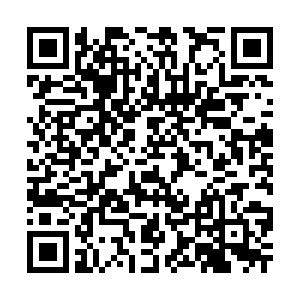
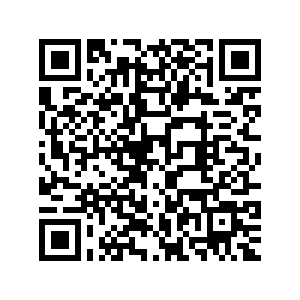
Editar reservas municipal manager, Carlos

diff --git a/src/main/resources/templates/reservation/reservasArea.html b/src/main/resources/templates/reservation/reservasArea.html
@@ -47,6 +47,9 @@
                         <button style="float: right" type="button" class="btn btn-primary" data-toggle="modal"
                                 th:data-target="${'#miModal' + reserva.reservationNumber}">Cancelar reserva
                         </button>
+                        <button style="float: right; margin-right: 10px" type="button" class="btn btn-secondary" data-toggle="modal"
+                                th:data-target="${'#miModal2' + reserva.reservationNumber}">Modificar reserva
+                        </button>
                     </div>
                 </div>
                 <br>
@@ -77,6 +80,33 @@
                         </div>
                     </div>
                 </div>
+
+                <!-- VENTANA EMERGENTE EDITAR-->
+                <div class="modal" th:id="${'miModal2' + reserva.reservationNumber}">
+                    <div class="modal-dialog modal-dialog-centered" role="document">
+                        <div class="modal-content">
+                            <div class="modal-header">
+                                <h5 class="modal-title">Editar reserva</h5>
+                                <button style="font-size:x-large; color: #b86f52" type="button" class="close"
+                                        data-dismiss="modal" aria-label="Close">&times;
+                                </button>
+                            </div>
+                            <div class="modal-body">
+                                <p>Indique el número de personas que finalmente acudirán:</p>
+                            </div>
+                            <form th:action="${'/reservation/editarReservaMuni/' + naturalArea + '/' + reserva.reservationNumber}" th:object="${personas}">
+                                <input type="number" min="1" class="form-control motivo" id="personas"
+                                       th:field="${personas.num}">
+                                <!-- TODO No funciona el numero max del input de arriba-->
+                                <div class="modal-footer">
+                                    <button type="submit" class="btn btn-primary">Confirmar</button>
+                                    <button type="button" class="btn btn-secondary" data-dismiss="modal">Atrás</button>
+                                </div>
+                            </form>
+                        </div>
+                    </div>
+                </div>
+
             </div>
         </div>
         <br>

diff --git a/src/main/java/es/uji/ei102720mgph/SANA/controller/ReservationController.java b/src/main/java/es/uji/ei102720mgph/SANA/controller/ReservationController.java
@@ -37,12 +37,12 @@ public class ReservationController {
 
     @Autowired
     public void setReservationDao(ReservationDao reservationDao) {
-        this.reservationDao=reservationDao;
+        this.reservationDao = reservationDao;
     }
 
     @Autowired
     public void setNaturalAreaDao(NaturalAreaDao naturalAreaDao) {
-        this.naturalAreaDao=naturalAreaDao;
+        this.naturalAreaDao = naturalAreaDao;
     }
 
     @Autowired
@@ -51,12 +51,12 @@ public class ReservationController {
     }
 
     @Autowired
-    public void setReservaDatosDao(ReservaDatosDao reservaDatosDao){
+    public void setReservaDatosDao(ReservaDatosDao reservaDatosDao) {
         this.reservaDatosDao = reservaDatosDao;
     }
 
     @Autowired
-    public void setTimeSlotDao(TimeSlotDao timeSlotDao){
+    public void setTimeSlotDao(TimeSlotDao timeSlotDao) {
         this.timeSlotDao = timeSlotDao;
     }
 
@@ -67,14 +67,15 @@ public class ReservationController {
 
 
     // Operació crear
-    @RequestMapping(value="/add/{naturalArea}")
+    @RequestMapping(value = "/add/{naturalArea}")
     public String addReservation(Model model, @PathVariable String naturalArea, HttpSession session) {
-        if (session.getAttribute("registeredCitizen") == null)  {
-            model.addAttribute("userLogin", new UserLogin() {});
+        if (session.getAttribute("registeredCitizen") == null) {
+            model.addAttribute("userLogin", new UserLogin() {
+            });
             session.setAttribute("nextUrl", "/reservation/add/" + naturalArea);
             return "redirect:/inicio/login";
         }
-        if(session.getAttribute("nextUrl") != null)
+        if (session.getAttribute("nextUrl") != null)
             session.removeAttribute("nextUrl");
         model.addAttribute("reservation", new NuevaReserva());
         model.addAttribute("naturalArea", naturalArea);
@@ -87,7 +88,7 @@ public class ReservationController {
         return "reservation/add";
     }
 
-    @RequestMapping(value="/add2/{naturalArea}")
+    @RequestMapping(value = "/add2/{naturalArea}")
     public String addReservation2(@ModelAttribute("reservation") NuevaReserva reservation, @PathVariable String naturalArea, Model model, HttpSession session) {
         model.addAttribute("reservation", reservation);
         model.addAttribute("naturalArea", naturalArea);
@@ -98,8 +99,7 @@ public class ReservationController {
             } else {
                 model.addAttribute("puedeReservar", false);
             }
-        }
-        else {
+        } else {
             model.addAttribute("puedeReservar", true);
         }
         List<Zone> zonas = zoneDao.getZoneDisponibles(reservation.getReservationDate(), reservation.getTimeSlotId(), reservation.getNumberOfPeople(), (String) model.getAttribute("naturalArea"));
@@ -108,7 +108,7 @@ public class ReservationController {
     }
 
     // Gestió de la resposta del formulari de creació d'objectes
-    @RequestMapping(value="/add", method=RequestMethod.POST)
+    @RequestMapping(value = "/add", method = RequestMethod.POST)
     public String processAddSubmit(@ModelAttribute("reservation") NuevaReserva reservation,
                                    BindingResult bindingResult, HttpSession session) {
         // TODO VALIDADOR RESERVA
@@ -154,7 +154,7 @@ public class ReservationController {
             String destinatario = reservation.getCitizenEmail();
             String asunto = "Reserva completada";
             String cuerpo = "Reserva realizada correctamente el día " + reservation.getReservationDate() +
-            " para " + reservation.getNumberOfPeople()  + " personas. \n\nUn cordial saludo del equipo de SANA.";
+                    " para " + reservation.getNumberOfPeople() + " personas. \n\nUn cordial saludo del equipo de SANA.";
             Email email = HomeController.enviarMail(destinatario, asunto, cuerpo);
             emailDao.addEmail(email);
         }
@@ -165,7 +165,8 @@ public class ReservationController {
     @RequestMapping("/cancelarReserva/{id}")
     public String cancelarReserva(@ModelAttribute("motivo") MotivoCancelancion motivo, @PathVariable String id, Model model, HttpSession session) {
         if (session.getAttribute("registeredCitizen") == null) {
-            model.addAttribute("userLogin", new UserLogin() {});
+            model.addAttribute("userLogin", new UserLogin() {
+            });
             session.setAttribute("nextUrl", "/reservation/reservas");
             return "redirect:/inicio/login";
         }
@@ -191,7 +192,7 @@ public class ReservationController {
         String destinatario = reservation.getCitizenEmail();
         String asunto = "Reserva cancelada";
         String cuerpo = "Ha cancelado su reserva correctamente del día " + reservation.getReservationDate() +
-                " para " + reservation.getNumberOfPeople()  + " personas. \n\nUn cordial saludo del equipo de SANA.";
+                " para " + reservation.getNumberOfPeople() + " personas. \n\nUn cordial saludo del equipo de SANA.";
         Email email = HomeController.enviarMail(destinatario, asunto, cuerpo);
         emailDao.addEmail(email);
         return "redirect:/reservation/reservas";
@@ -207,8 +208,7 @@ public class ReservationController {
         }
 
         int pers = personas.getNum();
-        System.out.println(pers);
-        //reservaDatosDao.cancelaReservaPorCiudadano(id, personas);
+        reservaDatosDao.modificaReservaPersonas(id, pers);
 
         // Actualizar QR con los nuevos datos de la reserva
         Reservation reservation = reservationDao.getReservation(Integer.parseInt(id));
@@ -232,17 +232,58 @@ public class ReservationController {
         String destinatario = reservation.getCitizenEmail();
         String asunto = "Reserva actualizada";
         String cuerpo = "Ha actualizado correctamente los datos de la reserva del día " + reservation.getReservationDate() +
-                " para " + reservation.getNumberOfPeople()  + " personas. \n\nUn cordial saludo del equipo de SANA.";
+                " para " + reservation.getNumberOfPeople() + " personas. \n\nUn cordial saludo del equipo de SANA.";
         Email email = HomeController.enviarMail(destinatario, asunto, cuerpo);
         emailDao.addEmail(email);
         return "redirect:/reservation/reservas";
+    }
+
+    @RequestMapping("/editarReservaMuni/{naturalArea}/{id}")
+    public String editarReservaMuni(@ModelAttribute("personas") PersonasReserva personas, @PathVariable String naturalArea, @PathVariable String id, Model model, HttpSession session) {
+        if (session.getAttribute("municipalManager") == null) {
+            model.addAttribute("userLogin", new UserLogin() {});
+            session.setAttribute("nextUrl", "/reservation/reservas");
+            return "redirect:/inicio/login";
+        }
+
+        int pers = personas.getNum();
+        reservaDatosDao.modificaReservaPersonas(id, pers);
+
+        // Actualizar QR con los nuevos datos de la reserva
+        Reservation reservation = reservationDao.getReservation(Integer.parseInt(id));
+        String timeSlotId = reservation.getTimeSlotId();
+        TimeSlot timeSlot = timeSlotDao.getTimeSlot(timeSlotId);
+        Formatter fmt = new Formatter();
+        QRCode qr = new QRCode();
+        File f = new File("qr" + fmt.format("%07d", Integer.parseInt(id)) + ".png");
+        String text = "Reserva por " + reservation.getCitizenEmail() + ", de fecha " + reservation.getReservationDate()
+                + ", de " + timeSlot.getBeginningTime() + " a " + timeSlot.getEndTime() + ", para " + reservation.getNumberOfPeople() + " personas.";
+        try {
+            qr.generateQR(f, text, 300, 300);
+            byte[] bytes = Files.readAllBytes(f.toPath());
+            Path path = Paths.get(uploadDirectory + "qrCodes/" + f.getName());
+            Files.write(path, bytes);
+        } catch (Exception e) {
+            e.printStackTrace();
+        }
+
+        // Enviar mail con la modificacion de la reserva
+        String destinatario = reservation.getCitizenEmail();
+        String asunto = "Reserva actualizada";
+        String cuerpo = "Debido a las restricciones de aforo en el area natural: " + naturalArea +
+                "se ha modificado el número de personas que podrán acudir a dicha reserva con fecha" + reservation.getReservationDate() +
+                " y se ha visto modificada a " + reservation.getNumberOfPeople() + " personas asistentes. \n\nUn cordial saludo del equipo de SANA.";
+        Email email = HomeController.enviarMail(destinatario, asunto, cuerpo);
+        emailDao.addEmail(email);
+        return "redirect:/reservation/reservasArea/" + naturalArea;
     }
 
 
     @RequestMapping("/cancelarReservaMunicipal/{naturalArea}/{id}")
     public String cancelarReservaMunicipal(@ModelAttribute("motivo") MotivoCancelancion motivo, @PathVariable String naturalArea, @PathVariable String id, Model model, HttpSession session) {
         if (session.getAttribute("municipalManager") == null) {
-            model.addAttribute("userLogin", new UserLogin() {});
+            model.addAttribute("userLogin", new UserLogin() {
+            });
             session.setAttribute("nextUrl", "/reservation/reservasArea/" + naturalArea);
             return "redirect:/inicio/login";
         }
@@ -268,7 +309,7 @@ public class ReservationController {
         String destinatario = reservation.getCitizenEmail();
         String asunto = "Reserva cancelada";
         String cuerpo = "Su reserva del día " + reservation.getReservationDate() +
-                " para " + reservation.getNumberOfPeople()  + " personas ha sido cancelada por el gestor municipal." +
+                " para " + reservation.getNumberOfPeople() + " personas ha sido cancelada por el gestor municipal." +
                 "\n\nUn cordial saludo del equipo de SANA.";
         Email email = HomeController.enviarMail(destinatario, asunto, cuerpo);
         emailDao.addEmail(email);
@@ -278,7 +319,8 @@ public class ReservationController {
     @RequestMapping("/reservas")
     public String redirigirRegistradoReservas(Model model, HttpSession session) {
         if (session.getAttribute("registeredCitizen") == null) {
-            model.addAttribute("userLogin", new UserLogin() {});
+            model.addAttribute("userLogin", new UserLogin() {
+            });
             session.setAttribute("nextUrl", "/reservation/reservas");
             return "redirect:/inicio/login";
         }
@@ -299,7 +341,8 @@ public class ReservationController {
     @RequestMapping("/reservasTodas")
     public String redirigirRegistradoReservasTodas(Model model, HttpSession session) {
         if (session.getAttribute("registeredCitizen") == null) {
-            model.addAttribute("userLogin", new UserLogin() {});
+            model.addAttribute("userLogin", new UserLogin() {
+            });
             session.setAttribute("nextUrl", "/reservation/reservasTodas");
             return "redirect:/inicio/login";
         }
@@ -309,23 +352,26 @@ public class ReservationController {
         return "/reservation/reservasTodas";
     }
 
-    @RequestMapping(value="/reservasArea/{naturalArea}")
+    @RequestMapping(value = "/reservasArea/{naturalArea}")
     public String reservasArea(Model model, @PathVariable String naturalArea, HttpSession session) {
-        if(session.getAttribute("municipalManager") ==  null) {
-            model.addAttribute("userLogin", new UserLogin() {});
+        if (session.getAttribute("municipalManager") == null) {
+            model.addAttribute("userLogin", new UserLogin() {
+            });
             session.setAttribute("nextUrl", "/reservation/reservasArea/" + naturalArea);
             return "redirect:/inicio/login";
         }
         model.addAttribute("reservas", reservaDatosDao.getReservasNaturalArea(naturalArea));
         model.addAttribute("motivo", new MotivoCancelancion());
+        model.addAttribute("personas", new PersonasReserva());
         model.addAttribute("naturalArea", naturalArea);
         return "reservation/reservasArea";
     }
 
-    @RequestMapping(value="/reservasTodasArea/{naturalArea}")
+    @RequestMapping(value = "/reservasTodasArea/{naturalArea}")
     public String todasReservasnaturalArea(Model model, @PathVariable String naturalArea, HttpSession session) {
-        if(session.getAttribute("municipalManager") ==  null) {
-            model.addAttribute("userLogin", new UserLogin() {});
+        if (session.getAttribute("municipalManager") == null) {
+            model.addAttribute("userLogin", new UserLogin() {
+            });
             session.setAttribute("nextUrl", "/reservation/reservasTodasArea/" + naturalArea);
             return "redirect:/inicio/login";
         }

diff --git a/src/main/java/es/uji/ei102720mgph/SANA/dao/ReservaDatosDao.java b/src/main/java/es/uji/ei102720mgph/SANA/dao/ReservaDatosDao.java
@@ -73,6 +73,10 @@ public class ReservaDatosDao {
         jdbcTemplate.update("UPDATE Reservation SET state = ?, cancellationreason = ? WHERE reservationNumber =?", ReservationState.cancelledCitizen.name(), mot, Integer.parseInt(id));
     }
 
+    public void modificaReservaPersonas(String id, int personas){
+        jdbcTemplate.update("UPDATE Reservation SET numberofpeople = ? WHERE reservationNumber =?", personas, Integer.parseInt(id));
+    }
+
     public void cancelaReservaPorMunicipal(String id, String mot){
         jdbcTemplate.update("UPDATE Reservation SET state = ?, cancellationreason = ? WHERE reservationNumber =?", ReservationState.cancelledMunicipalManager.name(), mot, Integer.parseInt(id));
     }
